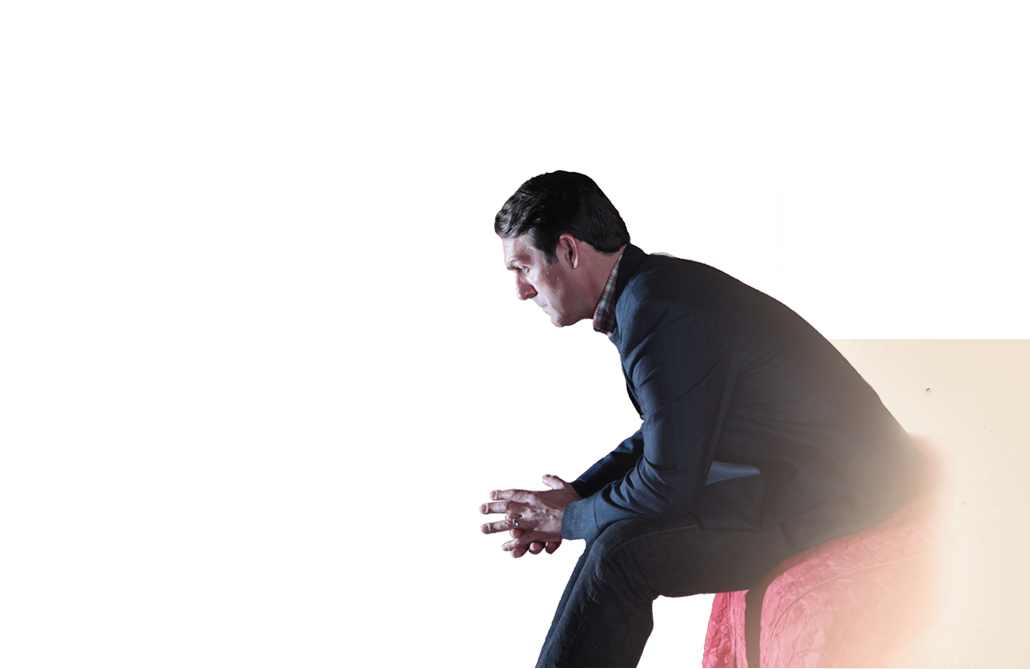
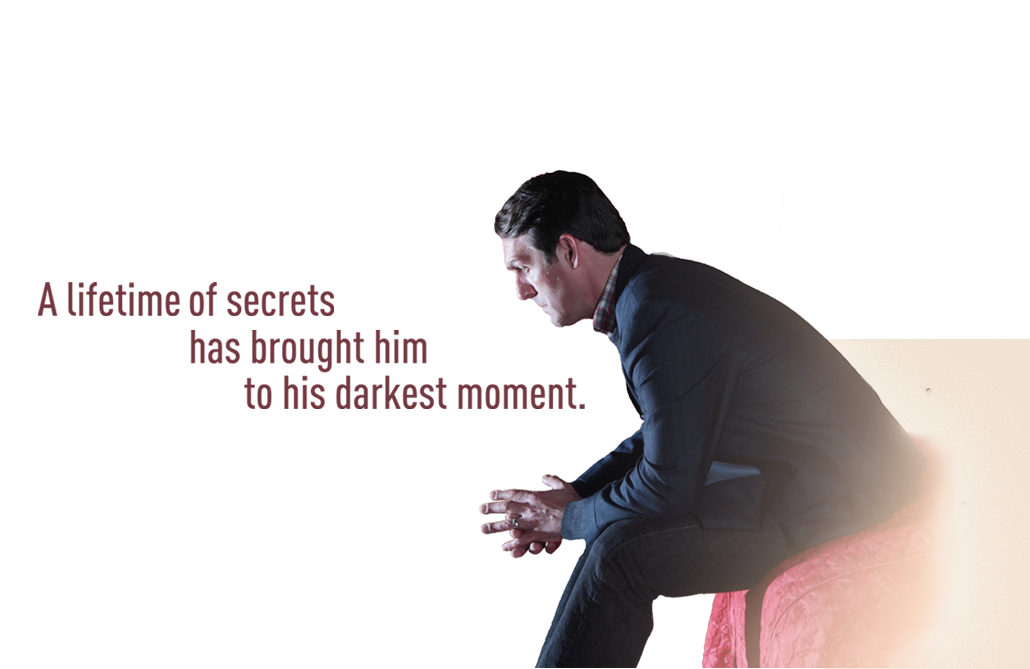
ten seconds: modified theme

Changed region(s): [[0.0311, 0.4185, 0.5592, 0.6278]]

diff --git a/sites/all/themes/tenseconds/styles.css b/sites/all/themes/tenseconds/styles.css
@@ -293,7 +293,8 @@
   padding-top: 10px;
 }
 body.front #main-wrapper-inner {
-  background: url('images/home-headline.png') no-repeat center 50px;
+  /*  background: url('images/home-headline.png') no-repeat center 50px;
+*/
 }
 body.front #main-wrapper-inner h3 {
   color: #72373f;

diff --git a/sites/all/themes/tenseconds/styles.less b/sites/all/themes/tenseconds/styles.less
@@ -328,8 +328,8 @@
 }
 
 body.front #main-wrapper-inner {
-  background: url('images/home-headline.png') no-repeat center 50px;
-  h3 {
+/*  background: url('images/home-headline.png') no-repeat center 50px;
+*/  h3 {
     color: #72373f;
     font-size: 18px;
     font-weight: bold;
